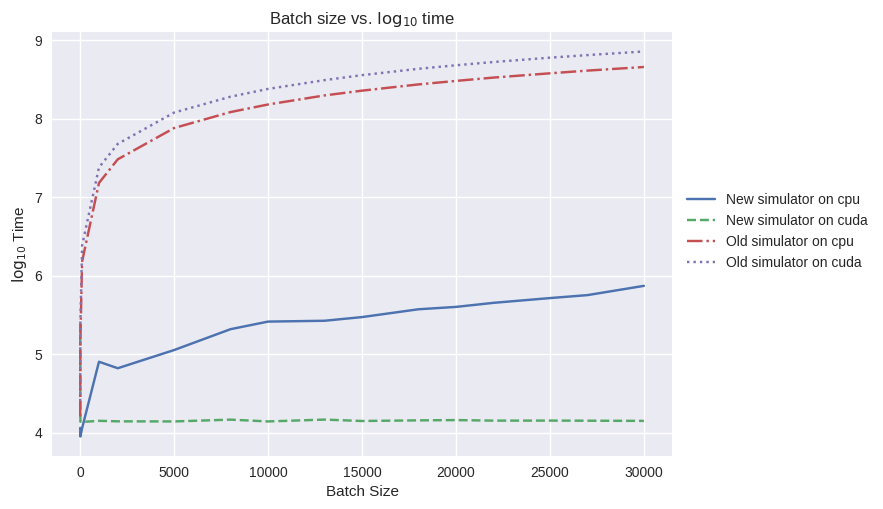
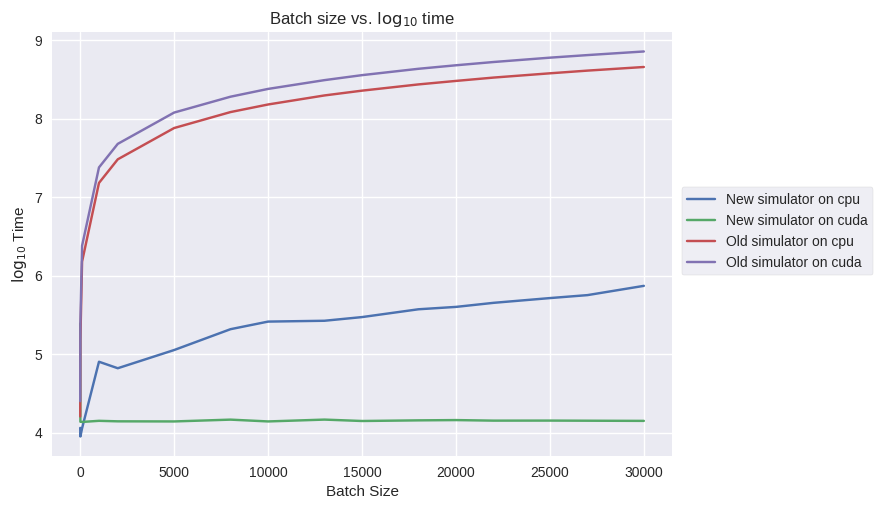
Updated plot line style and legend

diff --git a/plot.py b/plot.py
@@ -19,10 +19,10 @@ for simulator in ["New", "Old"]:
         y = df[df['Simulator'].str.match(simulator) & df['Device'].str.match(device)]
         x = y.loc[:, 'Batch Size']
         y = y.loc[:, 'Time']
-        plt.plot(x, np.log10(y), label=f'{simulator} simulator on {device}', linestyle=linestyles[i])
+        plt.plot(x, np.log10(y), label=f'{simulator} simulator on {device}')
         i += 1
 
-plt.legend(loc=9, bbox_to_anchor=(1.17, 0.65))
+plt.legend(loc=9, bbox_to_anchor=(1.17, 0.65), frameon=True)
 plt.xlabel('Batch Size')
 plt.ylabel('$\log_{10}$ Time')
 plt.title('Batch size vs. $\log_{10}$ time')
@@ -32,7 +32,7 @@ plt.close('all')
 
 fig = plt.figure()
 ax = plt.axes()
-linestyles = ['solid', 'dashed', 'dashdot', 'dotted']
+linestyles = ['solid', 'dashdot', 'dashed', 'dotted']
 i = 0
 for simulator in ["New", "Old"]:
     for device in ["cpu", "cuda"]:
@@ -41,7 +41,7 @@ for simulator in ["New", "Old"]:
         y = y.loc[:, 'Speed']
         plt.plot(x, y, label=f'{simulator} simulator on {device}', linestyle=linestyles[i])
         i += 1
-plt.legend(loc=9, bbox_to_anchor=(1.17, 0.65))
+plt.legend(loc=9, bbox_to_anchor=(1.17, 0.65), frameon=True)
 plt.xlabel('Batch Size')
 plt.ylabel('Speed in microseconds')
 plt.title('Batch size vs. Speed in microseconds')
